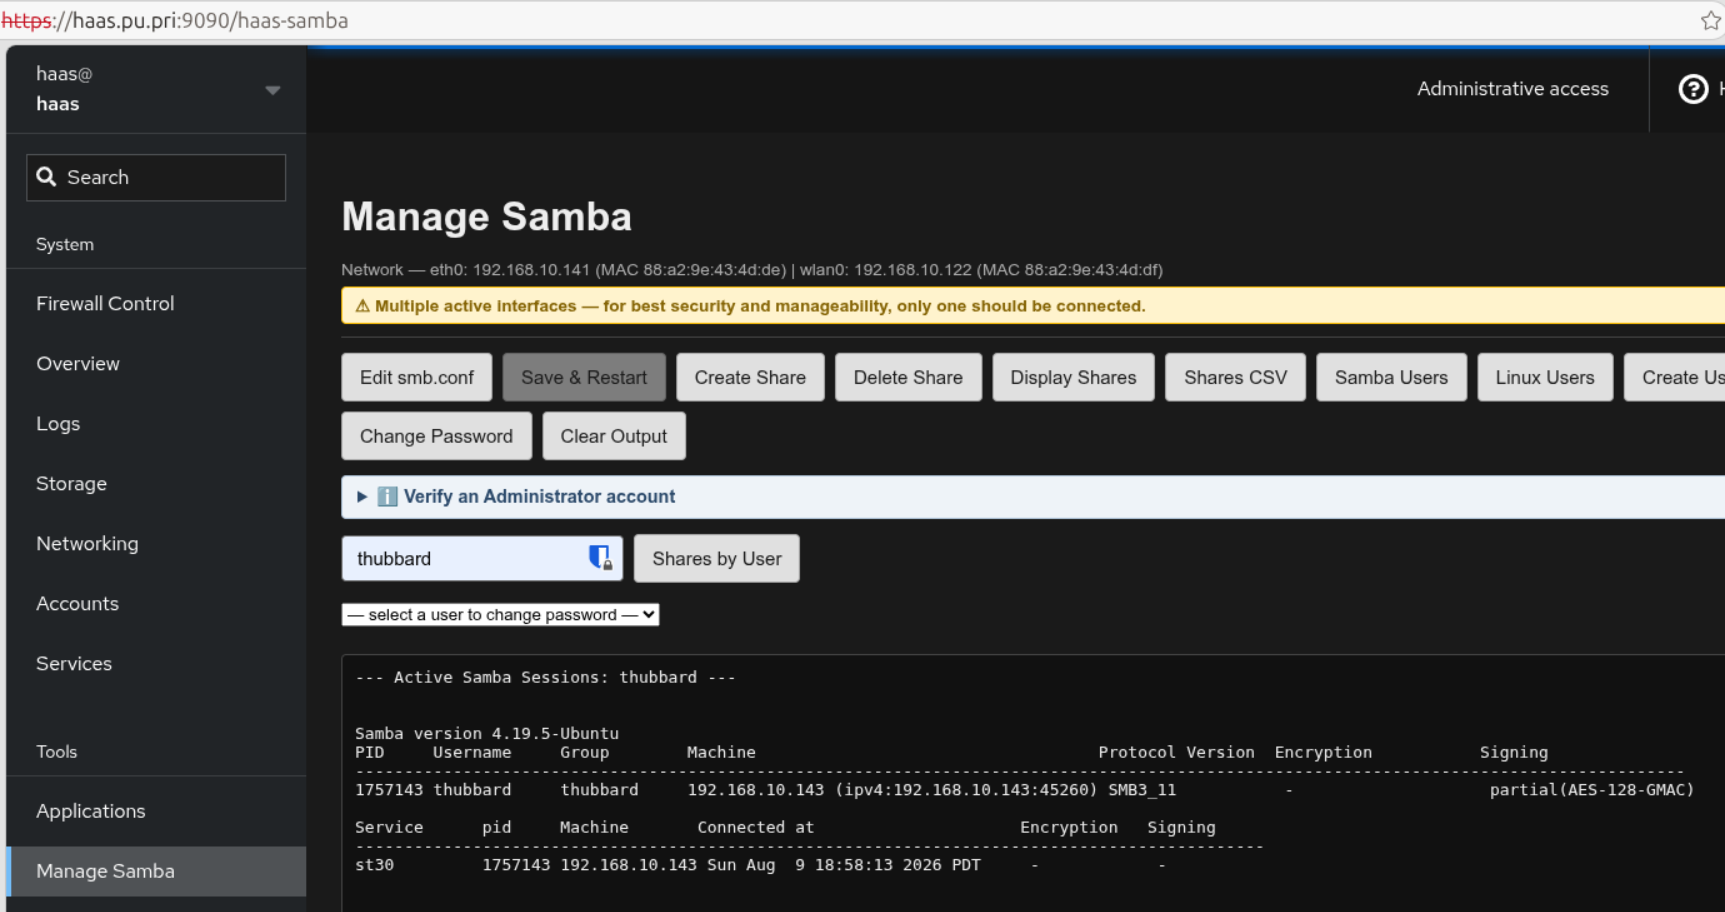
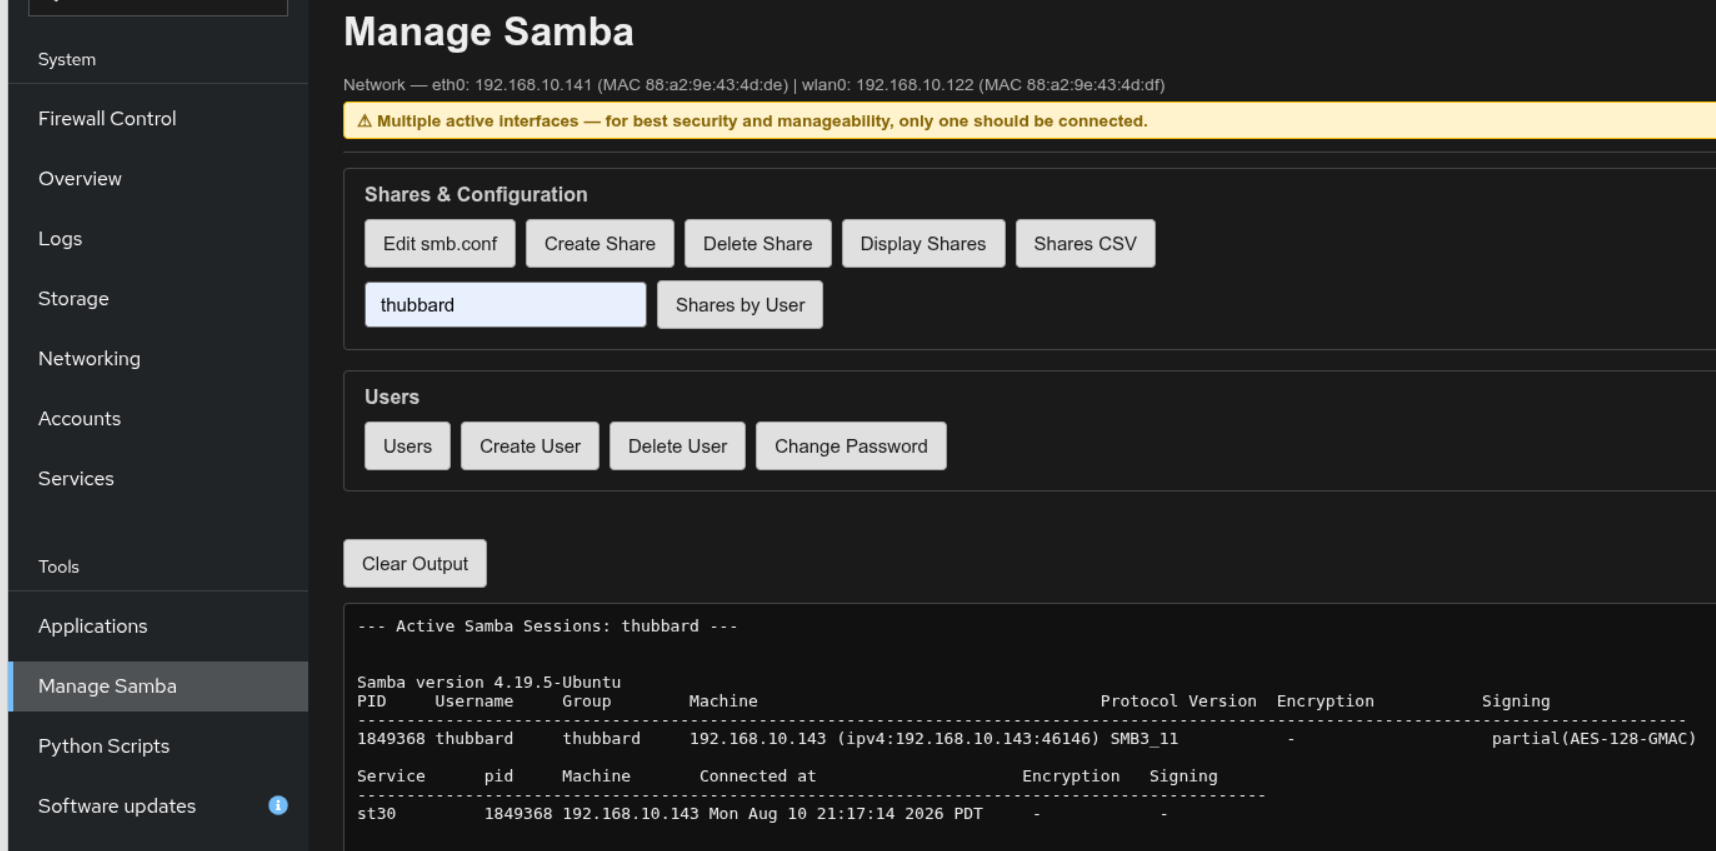
Git Title: manage_the_appliance/samba.md: Updated screenshots
Git Description:

Updating screenshots for the new Manage Samba extension.

diff --git a/docs/manage_the_appliance/samba.md b/docs/manage_the_appliance/samba.md
@@ -173,7 +173,7 @@ filled in from a fixed template.
 
    ----------------------------------------------------------------
 
-   ![screenshot](./img/create-share.resized.png)
+   ![screenshot](./img/create-share.png)
 
    ----------------------------------------------------------------
 
@@ -198,6 +198,8 @@ filled in from a fixed template.
     the restart result and `systemctl status smbd`.
 
   ----------------------------------------------------------------
+
+Output if the share was created successfully:
 
    ![screenshot](./img/create-share-final.resized.png)
 
@@ -300,6 +302,12 @@ step is skipped for them.
     from reporting — there's no need to open a Terminal and run these by
     hand anymore.
 
+----------------------------------------------------------------
+
+![screenshot](./img/admin-created-success.resized.png)
+
+----------------------------------------------------------------
+
 !!! note "This is a separate system from firewall access"
     `users.csv`/**Apply Firewall Changes** control *network* access — which
     IPs can reach the appliance at all. This controls *account* access —
@@ -324,13 +332,19 @@ the same pattern as **Delete Share**.
 3. Confirming runs `manage_users.sh <username> --delete-user --force` and
    shows the result in the output panel.
 
+----------------------------------------------------------------
+
+![screenshot](./img/delete-user-confirm-dialog.png)
+
+----------------------------------------------------------------
+
 If the user still has an active login session (an open SSH connection,
 for example), `userdel` refuses to remove the Linux account and the
 output panel shows `[ERROR]` naming the account as still active, with
 the command to terminate the session first (`sudo pkill -KILL -u
 <username>`) before retrying. The account is not silently left in place
 without a warning — deletion either fully succeeds or is reported as
-failed.
+failed. Have the user logout of the SSH or Cockpit session.
 
 ## Change Password
 
